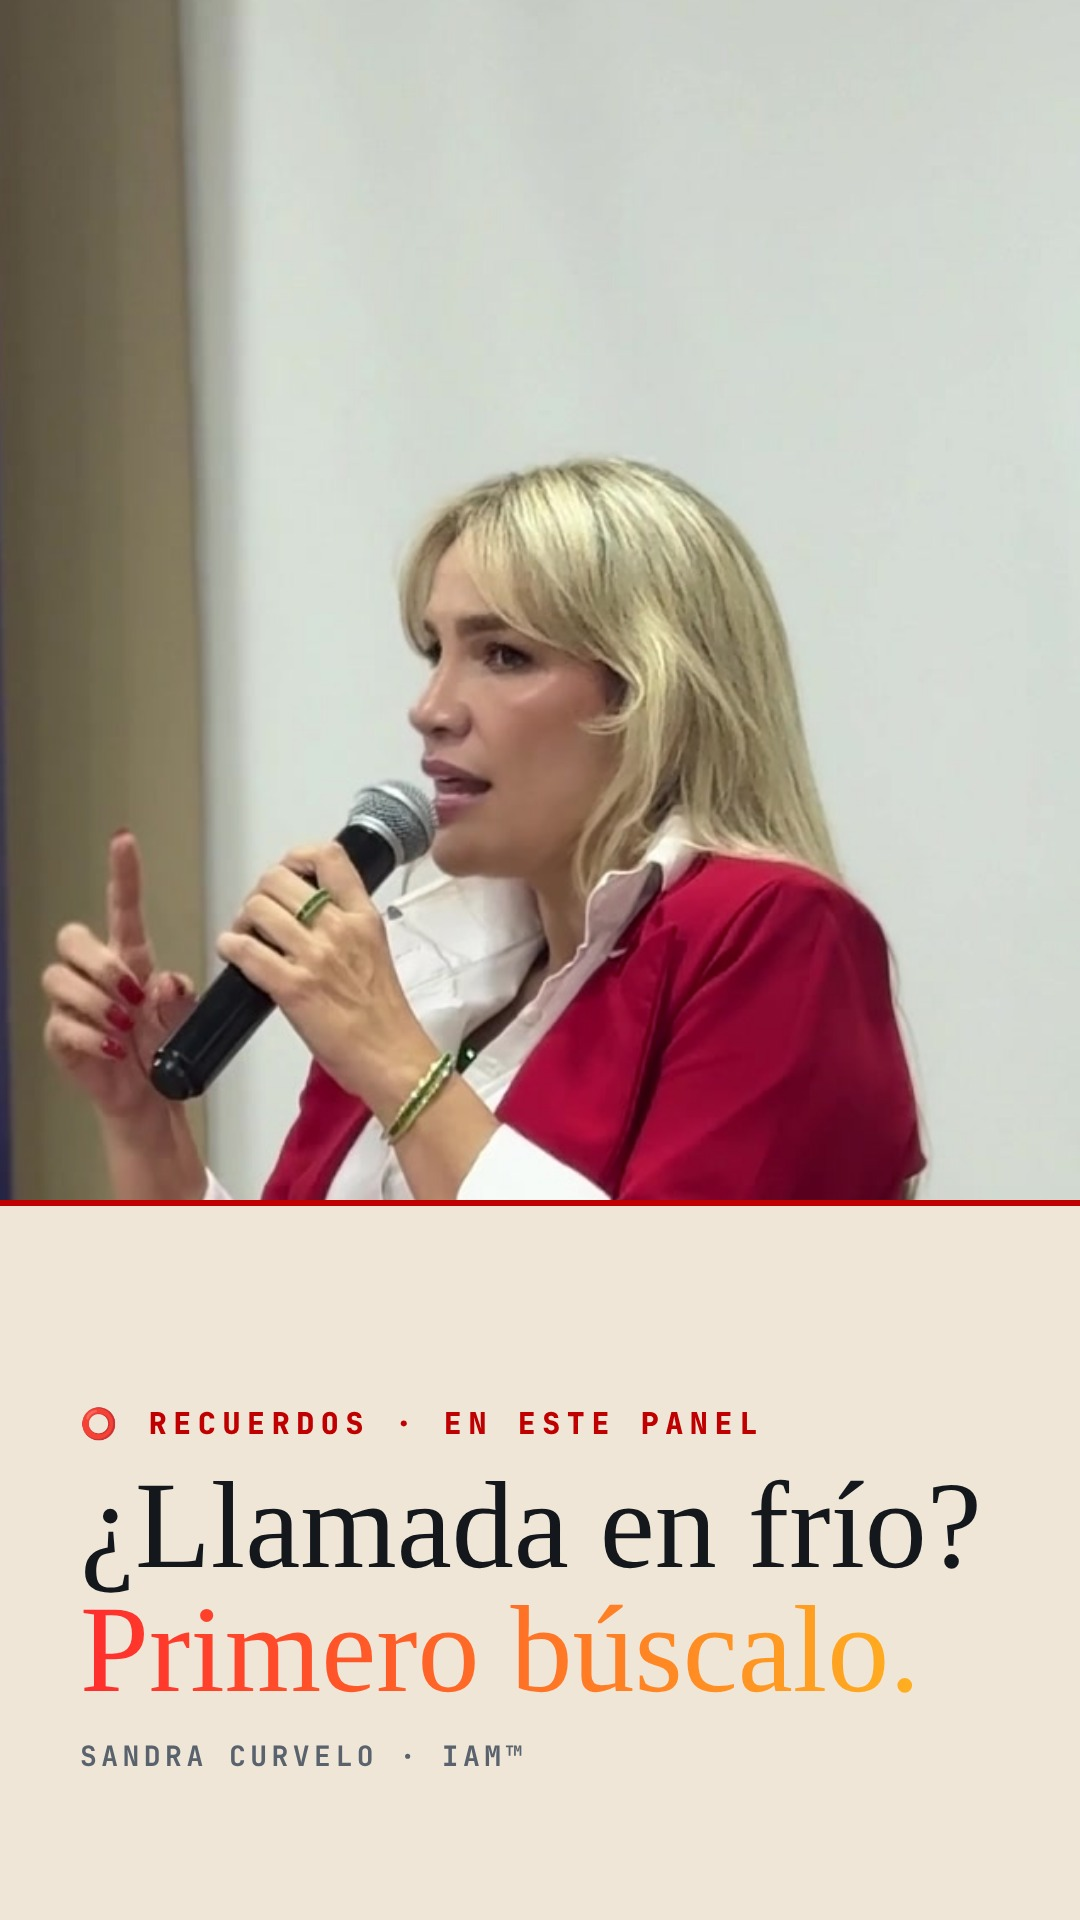
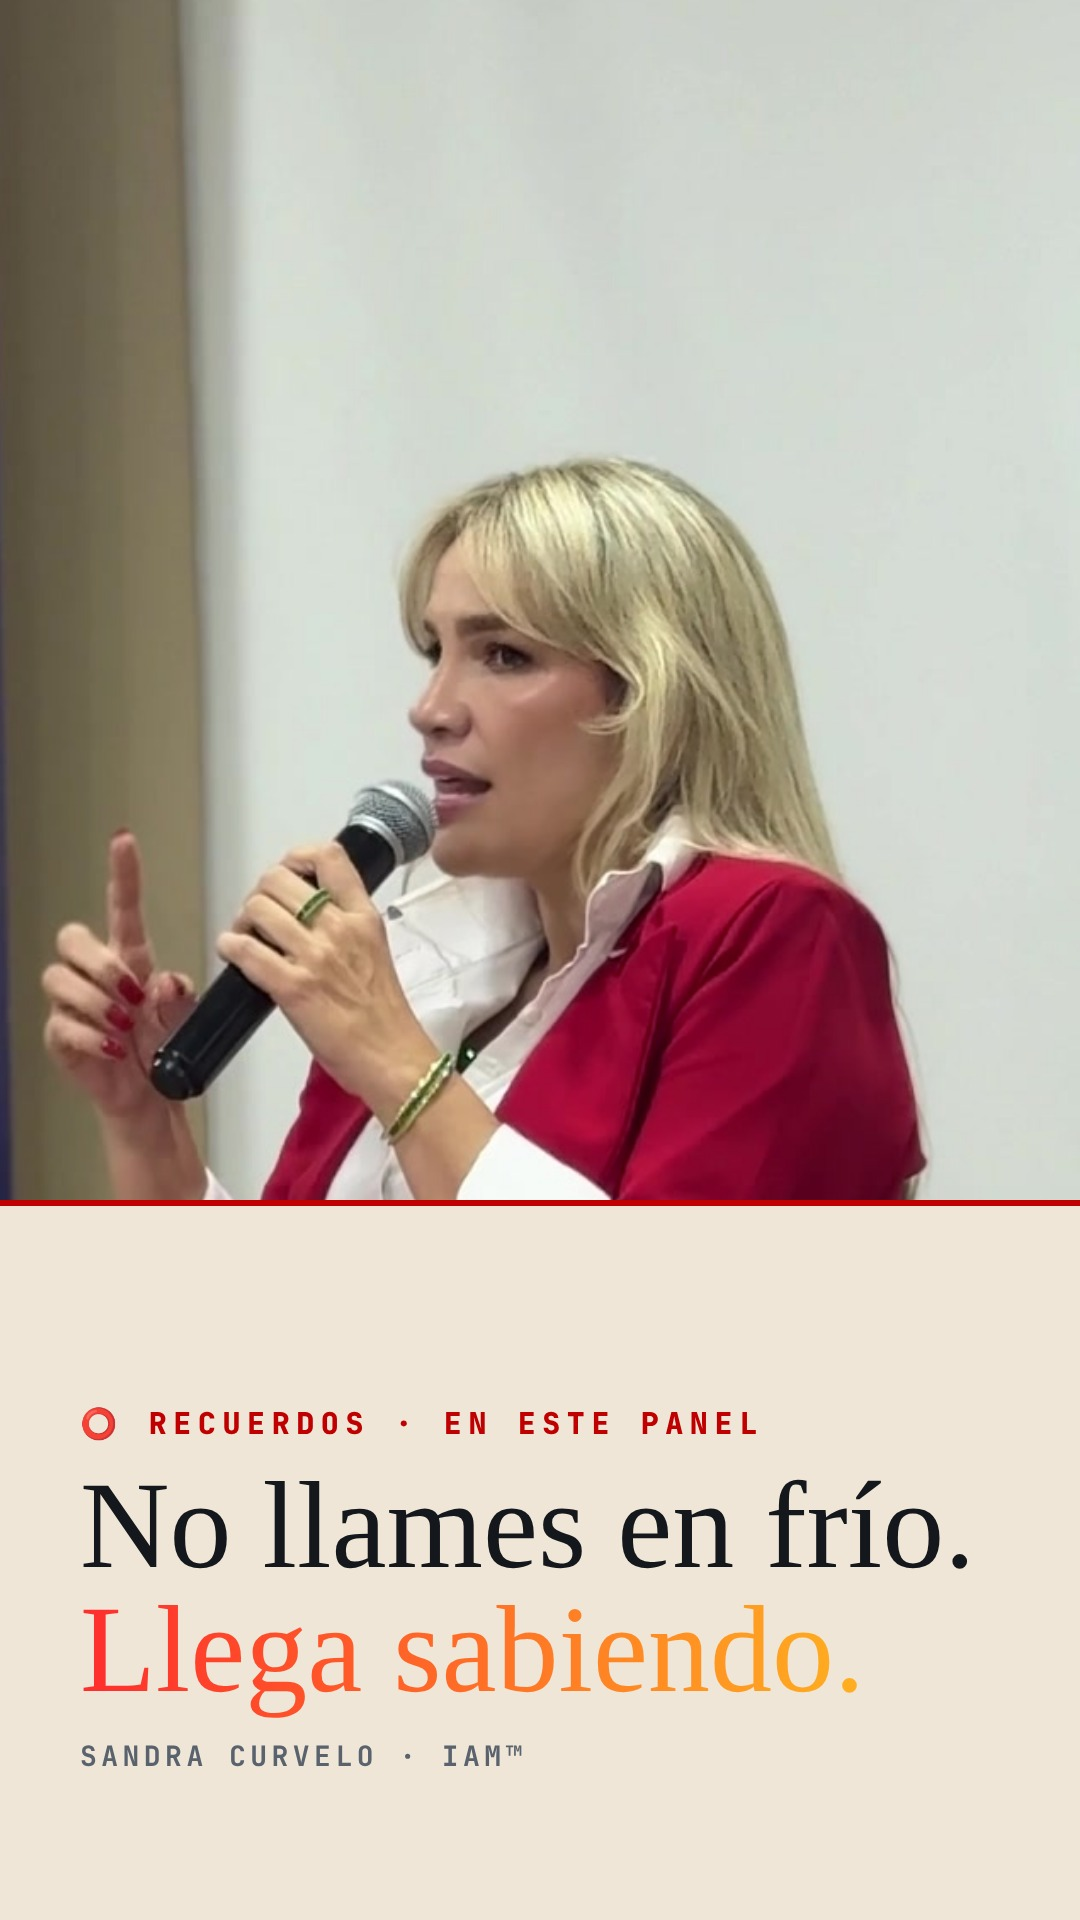
Reel Alpina: portada beige con el título 'No llames en frío. Llega sabiendo.'
Claude-Session: https://claude.ai/code/session_01NfWH1YnxdbRLc9ZrUJbHYq

Changed region(s): [[0.0611, 0.75, 0.9167, 0.9062]]

diff --git a/estrategia/instagram/reel-recuerdo-alpina/cover.html b/estrategia/instagram/reel-recuerdo-alpina/cover.html
@@ -18,5 +18,5 @@ em{font-style:normal;background:linear-gradient(90deg,#ff2d2d,#ffb020);-webkit-b
 #c2 .s{color:#5a636d}
 </style></head><body>
 <div class="c" id="c1"><img src="f1.jpg"><div class="band"></div><div class="t"><p class="eye">⭕ RECUERDOS · EN ESTE PANEL</p><h1>No llames en frío. <em>Llega sabiendo.</em></h1><p class="s" style="color:#9aa6b2">SANDRA CURVELO · IAM™</p></div></div>
-<div class="c" id="c2"><img src="f2.jpg"><div class="band"></div><div class="t"><p class="eye" style="color:#c00000">⭕ RECUERDOS · EN ESTE PANEL</p><h1>¿Llamada en frío? <em>Primero búscalo.</em></h1><p class="s">SANDRA CURVELO · IAM™</p></div></div>
+<div class="c" id="c2"><img src="f2.jpg"><div class="band"></div><div class="t"><p class="eye" style="color:#c00000">⭕ RECUERDOS · EN ESTE PANEL</p><h1>No llames en frío. <em>Llega sabiendo.</em></h1><p class="s">SANDRA CURVELO · IAM™</p></div></div>
 </body></html>
